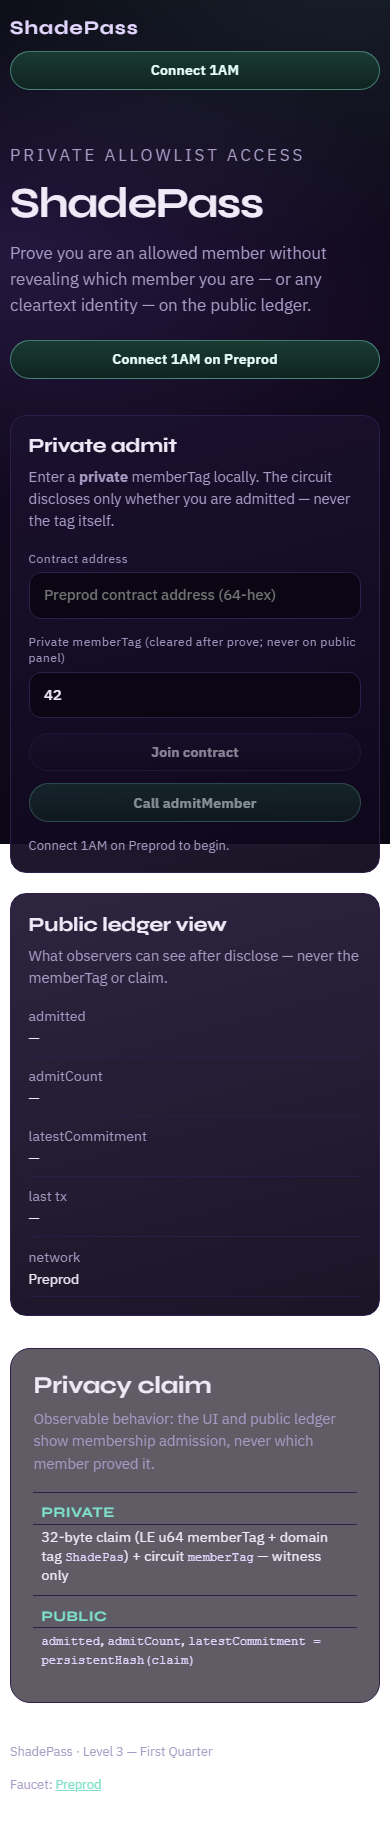
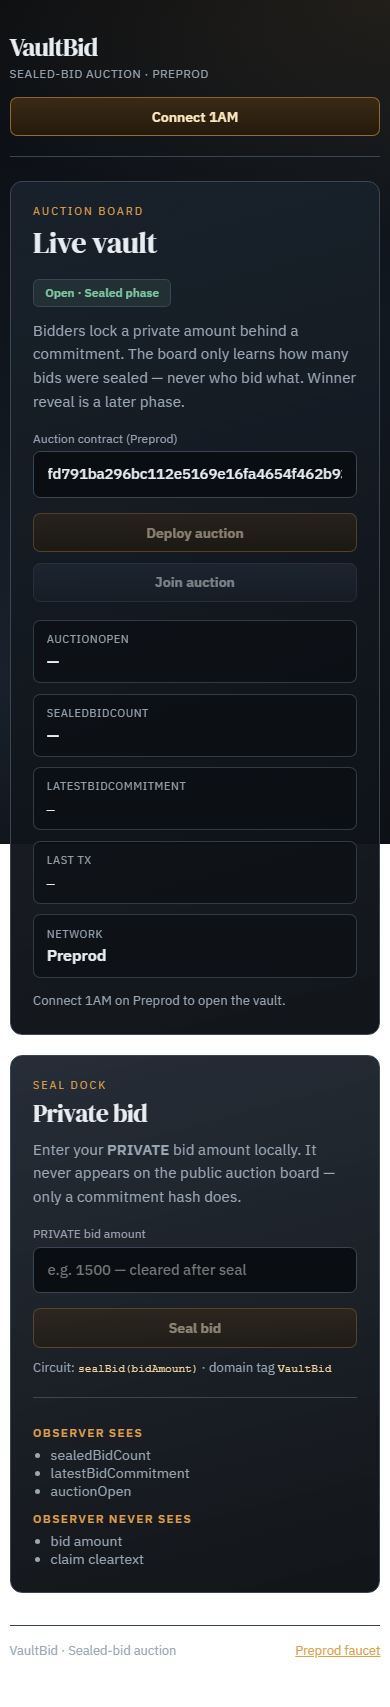
docs: refresh VaultBid desktop, mobile, and Vitest screenshot evidence

diff --git a/docs/screenshots/README.md b/docs/screenshots/README.md
@@ -1,12 +1,12 @@
-# Screenshots
+# Screenshots — VaultBid Level 3
 
 | File | Shows |
 |---|---|
-| `desktop-live.png` | Desktop live demo (Connect / private admit / public ledger) |
-| `mobile-live.png` | Mobile ~390Ã—844 responsive layout |
-| `test-results.png` | Vitest â‰¥10 passing (13/13) |
-| `ci-actions.png` | GitHub Actions run success on `main` (Nikkunj-145/vault-bid) |
+| `desktop-live.png` | Desktop auction board (Connect / seal dock / public stats) |
+| `mobile-live.png` | Mobile ~390×844 responsive layout |
+| `test-results.png` | Vitest ≥10 passing (13/13) |
+| `ci-actions.png` | GitHub Actions run success on `main` |
 | `ci-cd.png` | CI job steps: test + zk sync + web build |
+| `ci-github.png` | Actions list / badge evidence |
 
-Captured from https://vault-bid.vercel.app, local `npm test`, and https://github.com/Nikkunj-145/vault-bid/actions.
-
+Captured from https://vault-bid.vercel.app, local `npm test`, and GitHub Actions.
